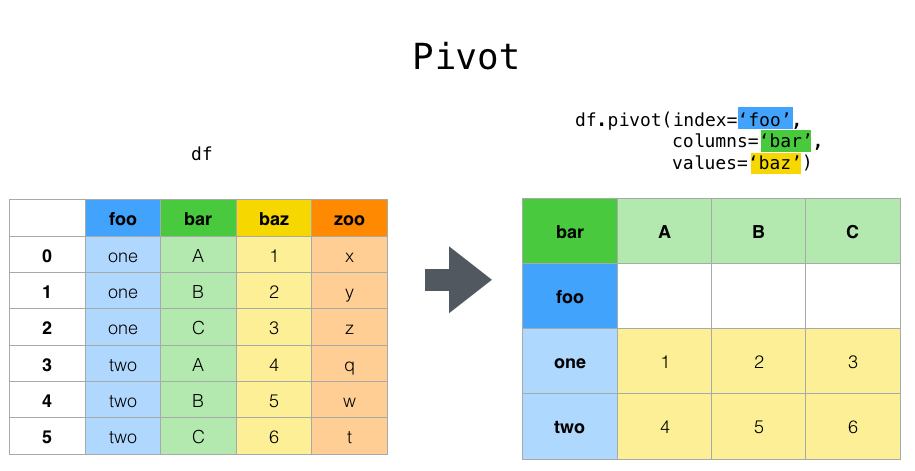
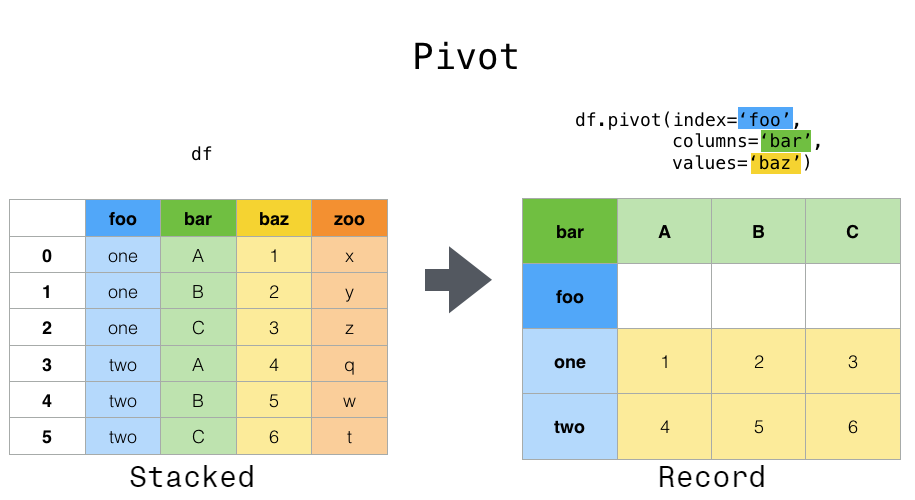
DOC: reshaping.rst Update (#52227)
Add synonymous terms and explination to reshaping.rst

diff --git a/doc/source/user_guide/reshaping.rst b/doc/source/user_guide/reshaping.rst
@@ -13,7 +13,7 @@ Reshaping by pivoting DataFrame objects
 
 .. image:: ../_static/reshaping_pivot.png
 
-Data is often stored in so-called "stacked" or "record" format:
+Data is often stored in so-called "stacked" or "record" format. In a "record" or "wide" format typically there is one row for each subject. In the "stacked" or "long" format there are multiple rows for each subject where applicable.
 
 .. ipython:: python
 
